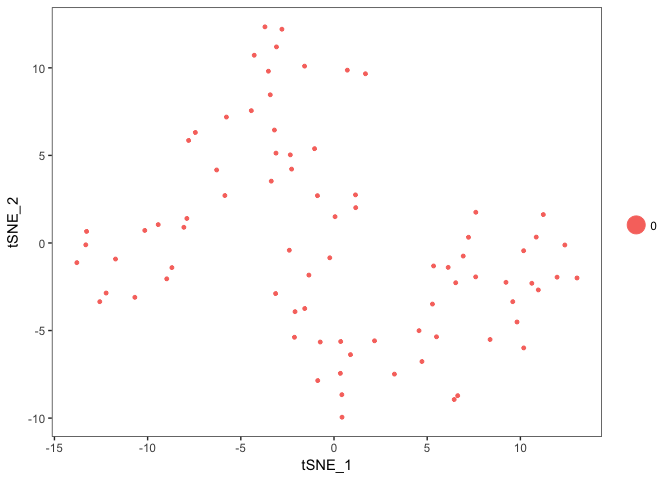
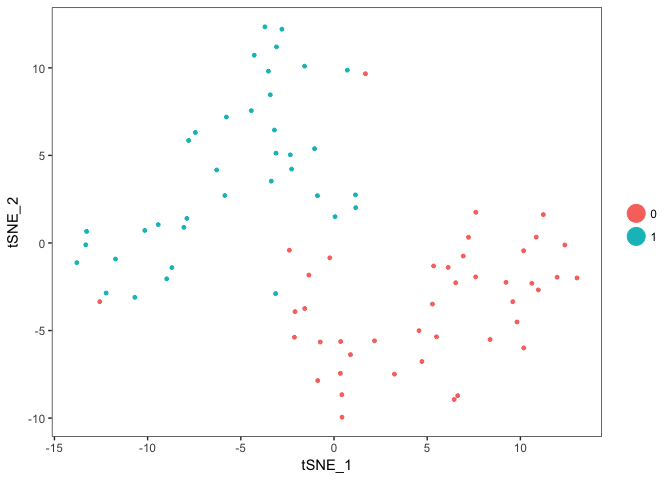
added README

Changed region(s): [[0.9062, 0.4062, 1.0, 0.5312], [0.4062, 0.3125, 0.4375, 0.3438]]

diff --git a/README.md b/README.md
@@ -66,8 +66,11 @@ pbmc_small <- RunTSNE(pbmc_small, reduction.use = 'rpca', dims.use = pcs.use,per
 Cluster cells
 -------------
 
+Note: need to set the dims.use parameter or `FindClusters` seems to default to using `'pca'` dimensionality reduction.
+
 ``` r
-pbmc_small <- FindClusters(pbmc_small, reduction.type = 'rpca', print.output = F)
+
+pbmc_small <- FindClusters(pbmc_small, reduction.type = 'rpca', dims.use = pcs.use, print.output = F)
 TSNEPlot(pbmc_small)
 ```
 
